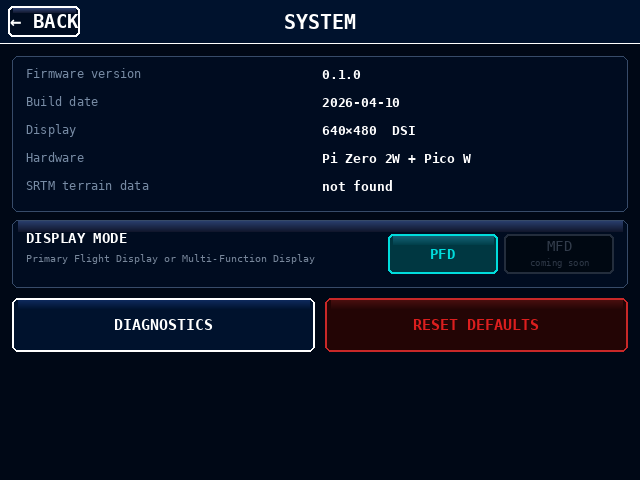
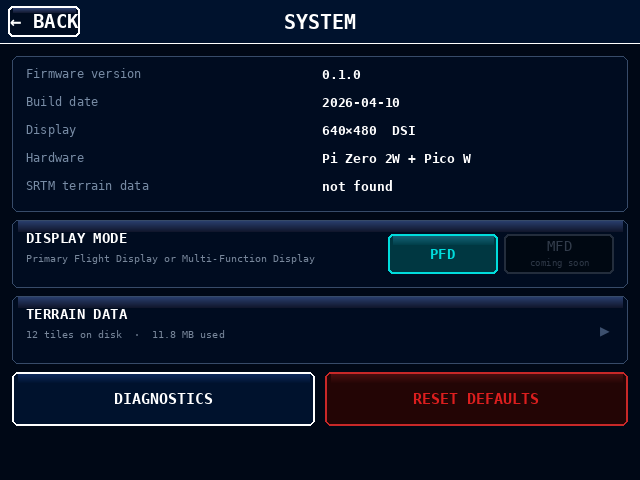
Fix system screen preview missing terrain data row
The preview's draw_system_screen was skipping from DISPLAY MODE
directly to the action buttons. Added the TERRAIN DATA setting row
(with tile count, MB used, and right-arrow hint) between them, and
updated the button Y position to match pfd.py's layout exactly.

https://claude.ai/code/session_017SH8gTHM3ctk1qfSPqffyG

Changed region(s): [[0.0, 0.5938, 1.0, 0.9062]]

diff --git a/tools/preview_640x480.py b/tools/preview_640x480.py
@@ -1457,7 +1457,16 @@ def draw_system_screen(filename, display_mode="pfd"):
     draw.text((mx - int(draw.textlength("coming soon",font=sf_m))//2, ry+btn_h_m-17),
               "coming soon", fill=(45,55,70), font=sf_m)
 
-    btn_y = mode_y + _SS_RH + 10; btn_h = 54
+    terrain_y = mode_y + _SS_RH + 8
+    _setting_row_p(draw, 0, "TERRAIN DATA",
+                   "12 tiles on disk  \u00b7  11.8 MB used",
+                   _y_override=terrain_y)
+    # Right-side arrow hint (tappable row → opens terrain download screen)
+    arrow_f = fnt(16)
+    draw.text((bx+bw-28, terrain_y+(_SS_RH-18)//2), "\u25b6",
+              fill=(60,80,110), font=arrow_f)
+
+    btn_y = terrain_y + _SS_RH + 8; btn_h = 54
     half_w = (bw - 10) // 2
     _action_btn_p(draw, bx,           btn_y, half_w, btn_h, "DIAGNOSTICS",   "normal")
     _action_btn_p(draw, bx+half_w+10, btn_y, half_w, btn_h, "RESET DEFAULTS","danger")
